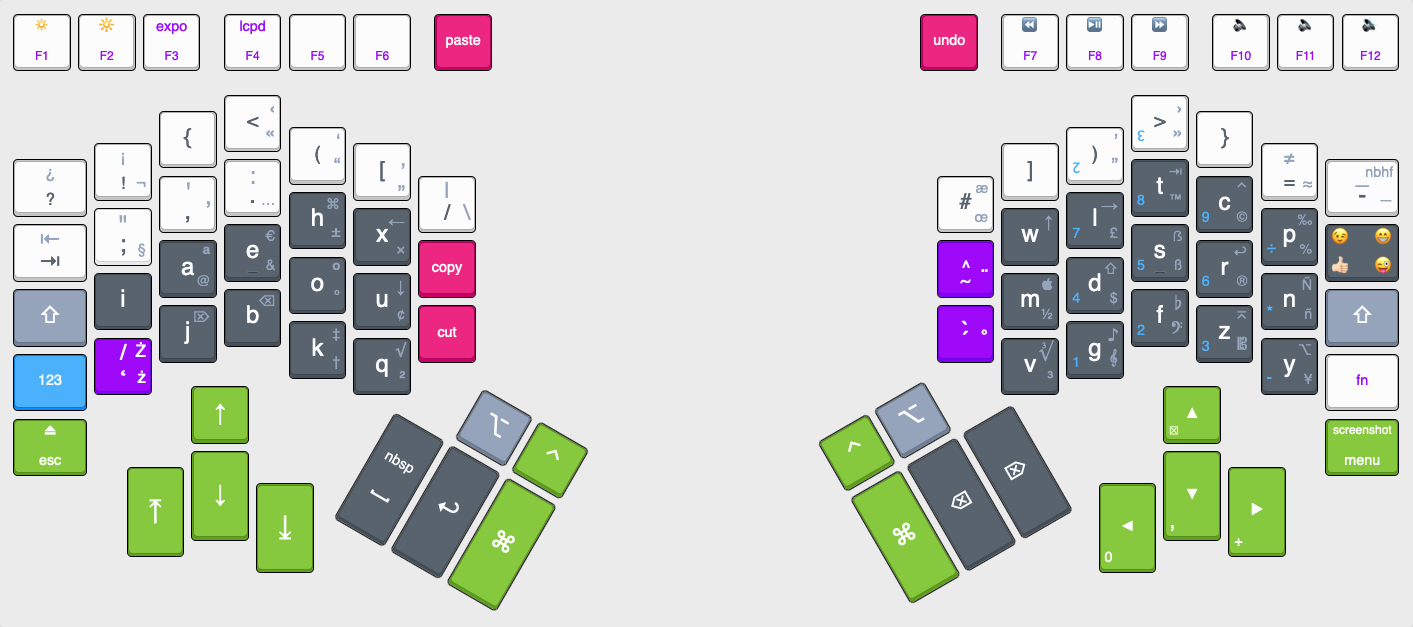
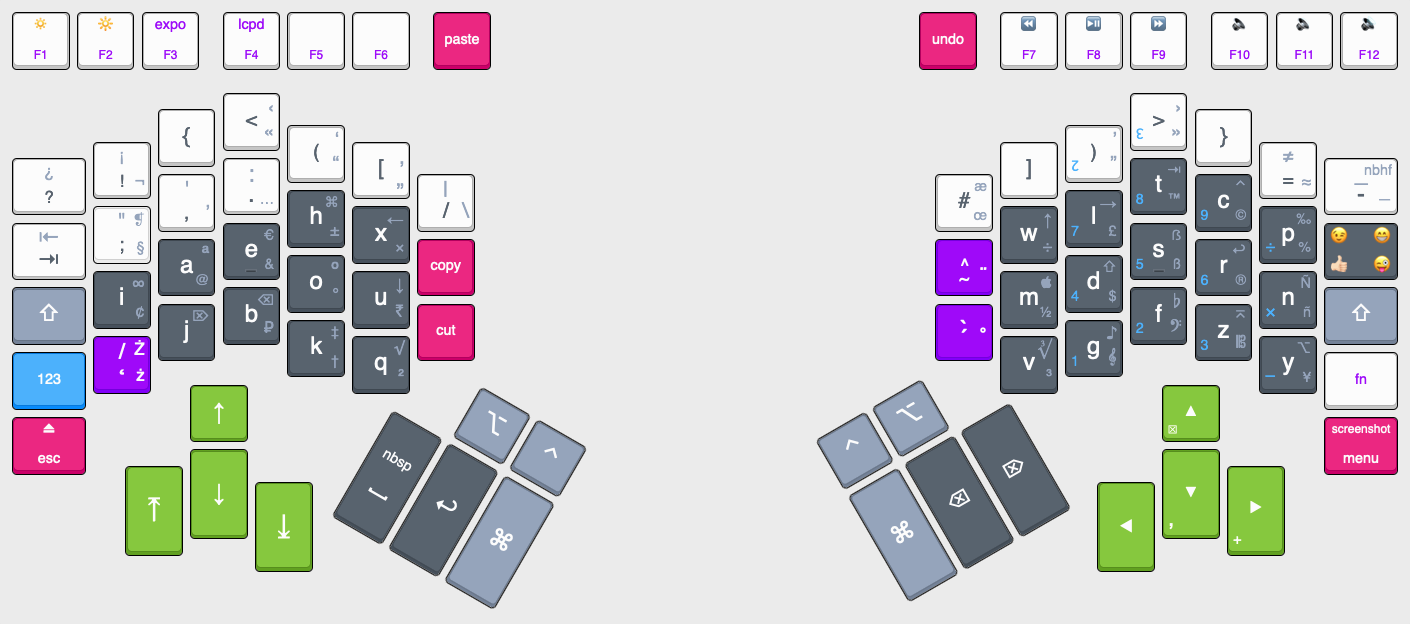
Formatting html keys. Upating full keyboard image.

diff --git a/en/programmerkeyboard/index.html b/en/programmerkeyboard/index.html
@@ -61,7 +61,6 @@
 	Just press them away like any other readily available letter.
 	Doesn’t get much more comfortable than that.
 	<a rel='external nofollow' href='https://en.wikipedia.org/wiki/AZERTY'>AZERTY</a> and <a rel='external nofollow' href='https://en.wikipedia.org/wiki/QWERTZ#Czech'>Czech QWERTZ</a> keyboard layout invert the number row anyway to acommodate more letters.
-	<br /><img src='images/dedicated%20programmer%20keys.png' alt='dedicated programming keys' />
 </p>
 <div>
 	<div>
@@ -175,7 +174,6 @@
 		<span slot='alt'>😜</span>
 		<span slot='alt-shift'>😁</span>
 	</a-key>
-	<br /><img src='images/emoji.png' alt='emoji' />
 </p>
 <p>
 	I’m still thinking if I make a whole layer for this or not.
@@ -188,7 +186,6 @@
 	<br /><a-key class='number wide'>
 		<span slot='center'>123</span>
 	</a-key>
-	<br /><img src='images/numeric%20pad%20toggle.png' alt='numeric pad layer toggle key' />
 	<br /><img src='images/numeric%20pad%20up%20to%20a%20dozen.png' alt='numeric pad up to a dozen' />
 </p>
 <div>
@@ -289,26 +286,26 @@
 			<span slot='center'>y</span>
 			<span slot='alt'>¥</span>
 			<span slot='alt-shift'>⌥</span>
-			<span slot='number'>-</span>
+			<span slot='number'>–</span>
 		</a-key>
 	</div>
 	<div>
 		<a-key class='arrow regular'>
-			<span slot='center'>▲</span>
+			<span slot='center'>⯅</span>
 			<span slot='number'>☒</span>
 		</a-key>
 	</div>
 	<div>
 		<a-key class='arrow'>
-			<span slot='center'>◄</span>
+			<span slot='center'>⯇</span>
 			<span slot='number'>0</span>
 		</a-key>
 		<a-key class='arrow'>
-			<span slot='center'>▼</span>
+			<span slot='center'>⯆</span>
 			<span slot='number'>,</span>
 		</a-key>
 		<a-key class='arrow'>
-			<span slot='center'>▶</span>
+			<span slot='center'>⯈</span>
 			<span slot='number'>+</span>
 		</a-key>
 	</div>
@@ -336,7 +333,6 @@
 		<span slot='alt-shift'>›</span>
 		<span slot='number'>↋</span>
 	</a-key>
-	<br /><img src='images/dozenal%20support.png' alt='numeric pad up to a dozen' />
 </p>
 <aside>
 	See also:
@@ -353,9 +349,6 @@
 	And <q>C</q> for copyright ©, <q>P</q> for percentages % ‰, <q>A</q> for @, q for sQuare ² and sQuare root √…
 </p>
 
-<p>
-	<img src='images/mnemonic.png' alt='mnemonic' />
-</p>
 <div>
 	<div>
 		<a-key class='punctuation'>
@@ -472,7 +465,7 @@
 			<span slot='center'>y</span>
 			<span slot='alt'>¥</span>
 			<span slot='alt-shift'>⌥</span>
-			<span slot='number'>-</span>
+			<span slot='number'>–</span>
 		</a-key>
 	</div>
 </div>
@@ -658,7 +651,6 @@
 <h3>Multilanguage</h3>
 <p>
 	More keys for specific letters and diacritic marks used in many languages. ¡Cerveza Weiß and bœuf all around!
-	<br /><img src='images/international%20support.png' alt='international support' />
 </p>
 <div>
 	<div>
@@ -717,7 +709,6 @@
 	<br />‚ ‘
 	<br />« »
 	<br />‹ ›
-	<br /><img src='images/international%20support%202.png' alt='international support' />
 </p>
 <div>
 	<div>
@@ -781,7 +772,6 @@
 <p>
 	Currency. All mnemonic of course. <strong>D</strong>ollar $, pound <strong>L</strong> £, <strong>E</strong>uro €, <strong>Y</strong>en, <strong>Y</strong>uan ¥, r<strong>u</strong>pee ₹, ru<strong>b</strong>le ₽ and cent ¢.
 	This had to go to i.
-	<br /><img src='images/currency.png' alt='currency' />
 	<br /><a rel='external nofollow' href='https://en.wikipedia.org/wiki/Currency_symbol'>https://en.wikipedia.org/wiki/Currency_symbol</a>
 </p>
 <div>
@@ -807,7 +797,7 @@
 			<span slot='center'>y</span>
 			<span slot='alt'>¥</span>
 			<span slot='alt-shift'>⌥</span>
-			<span slot='number'>-</span>
+			<span slot='number'>–</span>
 		</a-key>
 		<a-key>
 			<span slot='center'>u</span>
@@ -865,7 +855,6 @@
 	<h4>Home row</h4>
 	<p>
 		Letters you need most, effortlessly.
-		<br /><img src='images/homerow%20most%20frequent%20letters%20shift.png' alt='' />
 	</p>
 	<div>
 		<div>
@@ -886,7 +875,7 @@
 				<span slot='center'>e</span>
 				<span slot='alt'>¥</span>
 				<span slot='alt-shift'>⌥</span>
-				<span slot='number'>-</span>
+				<span slot='number'>–</span>
 			</a-key>
 			<a-key>
 				<span slot='center'>o</span>
@@ -1003,6 +992,54 @@
 		We rely on them more than we notice.
 		<br /><img src='images/large%20arrows%20most%20used%20keys.png' alt='large arrows' />
 	</p>
+	<div>
+		<div>
+			<a-key class='regular arrow'>
+				<span slot='center'>↑</span>
+			</a-key>
+		</div>
+		<div>
+			<a-key class='arrow'>
+				<span slot='center'>⤒</span>
+			</a-key>
+		</div>
+		<div>
+			<a-key class='arrow'>
+				<span slot='center'>↓</span>
+			</a-key>
+		</div>
+		<div>
+			<a-key class='arrow'>
+				<span slot='center'>⤓</span>
+			</a-key>
+		</div>
+	</div>
+	<div>
+		<div>
+			<a-key class='regular arrow'>
+				<span slot='center'>⯅</span>
+				<span slot='number'>☒</span>
+			</a-key>
+		</div>
+		<div>
+			<a-key class='arrow'>
+				<span slot='center'>⯇</span>
+				<span slot='number'>0</span>
+			</a-key>
+		</div>
+		<div>
+			<a-key class='arrow'>
+				<span slot='center'>⯆</span>
+				<span slot='number'>,</span>
+			</a-key>
+		</div>
+		<div>
+			<a-key class='arrow'>
+				<span slot='center'>⯈</span>
+				<span slot='number'>+</span>
+			</a-key>
+		</div>
+	</div>
 
 	<aside>
 		See also:
@@ -1015,7 +1052,6 @@
 	<h4>♪ Living, in a material world ♪ Not!</h4>
 	<p>
 		Still on the theme of typewritters and shortcuts. You get it don’t cha?
-		<br /><img src='images/dedicated%20shortcuts.png' alt='dedicated shortcuts' />
 	</p>
 
 	<div>
@@ -1089,8 +1125,8 @@ http://mkweb.bcgsc.ca/carpalx/?keyboard_layouts
 	<style>
 		.cap {
 			/* calcular 120% */
-			width: 48px;
-			height: 48px;
+			width: 56px;
+			height: 56px;
 			border: 1px solid #000000;
 			border-radius: 5px;
 			background-color: #636e7a;
@@ -1100,24 +1136,24 @@ http://mkweb.bcgsc.ca/carpalx/?keyboard_layouts
 
 		.cap.regular,
 		.cap.regular.arrow {
-			height: 48px;
+			height: 56px;
 		}
 
 		.cap.wide {
-			width: 62px;
+			width: 70px; /* 1.25 */
 		}
 
 		.cap.tall {
-			height: 96px; /* 2x */
+			height: 112px; /* 2x */
 		}
 
 		.cap.arrow {
-			height: 75px; /* 1.5 */
+			height: 84px; /* 1.5 */
 		}
 
 		.cap > div {
-			width: 46px;
-			height: 42px;
+			width: 54px;
+			height: 50px; /* var! */
 			border: 4px solid #505b66;
 			border-radius: 5px;
 			border-top-width: 2px;
@@ -1125,22 +1161,31 @@ http://mkweb.bcgsc.ca/carpalx/?keyboard_layouts
 			border-left-width: 1px;
 			border-right-width: 1px;
 			font-size: 14px;
+
+			display: grid;
+			grid-template-rows: 1fr 1fr 1fr;
+			grid-template-columns: 1fr 1fr 1fr;
+			grid-template-areas:
+				"topleft top topright"
+				"left center right"
+				"bottomleft bottom bottomright"
+			;
 		}
 
 		.cap.wide > div {
-			width: 60px;
+			width: 68px;
 		}
 
 		.cap.tall > div {
-			height: 90px;
+			height: 106px;
 		}
 
 		.cap.regular.arrow > div {
-			height: 42px;
+			height: 50px; /* var! */
 		}
 
 		.cap.arrow > div {
-			height: 69px;
+			height: 78px;
 		}
 
 		.punctuation.cap {
@@ -1191,16 +1236,33 @@ http://mkweb.bcgsc.ca/carpalx/?keyboard_layouts
 			border-color: #0099ff;
 		}
 
-		slot {
+		div {
 			color: #9faec4;
+			text-align: center;
+			vertical-align: middle;
+			place-self: center;
 		}
 
-		slot[name=center] {
+		.center {
 			color: #fcfcfc;
-			font-size: 20px;
+			font-size: 23px;
+			grid-row: 1 / 4;
+			grid-column: 1 / 4;
 		}
 
-		.punctuation slot[name=center] {
+		.shift {
+			grid-area: top;
+		}
+
+		.alt {
+			grid-area: bottomright;
+		}
+
+		.alt-shift {
+			grid-area: topright;
+		}
+
+		.punctuation .center {
 			color: #636e7a;
 		}
 
@@ -1215,24 +1277,25 @@ http://mkweb.bcgsc.ca/carpalx/?keyboard_layouts
 
 		.number slot,
 		.shortcutkey slot {
-			font-size: 12px;
+			font-size: 14px;
 		}
 
-		slot[name=number] {
-			color: #0099ff;
+		.number {
+			color: #00BBff;
+			grid-area: bottomleft;
 		}
 
-		.arrow slot[name=number] {
+		.arrow .number {
 			color: #fcfcfc;
 		}
 	</style>
 	<div class='cap'>
 		<div>
-			<slot name='number'></slot>
-			<slot name='shift'></slot>
-			<slot name='center'></slot>
-			<slot name='alt-shift'></slot>
-			<slot name='alt'></slot>
+			<div class='number'><slot name='number'></slot></div>
+			<div class='shift'><slot name='shift'></slot></div>
+			<div class='center'><slot name='center'></slot></div>
+			<div class='alt-shift'><slot name='alt-shift'></slot></div>
+			<div class='alt'><slot name='alt'></slot></div>
 		</div>
 	</div>
 </template>
